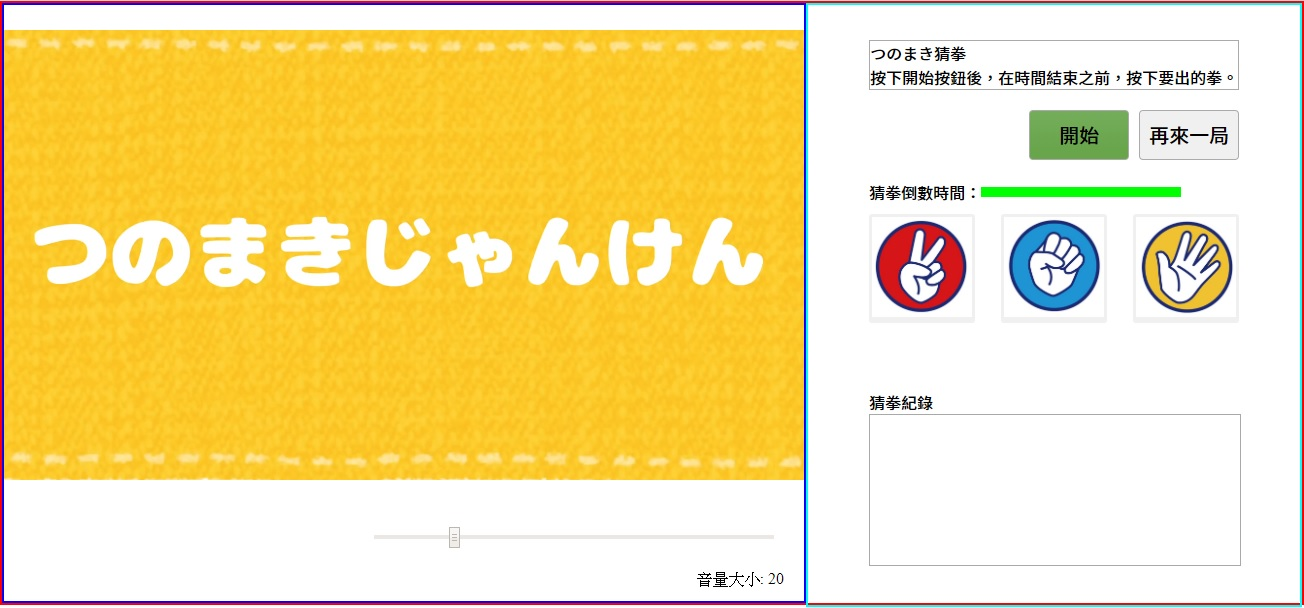
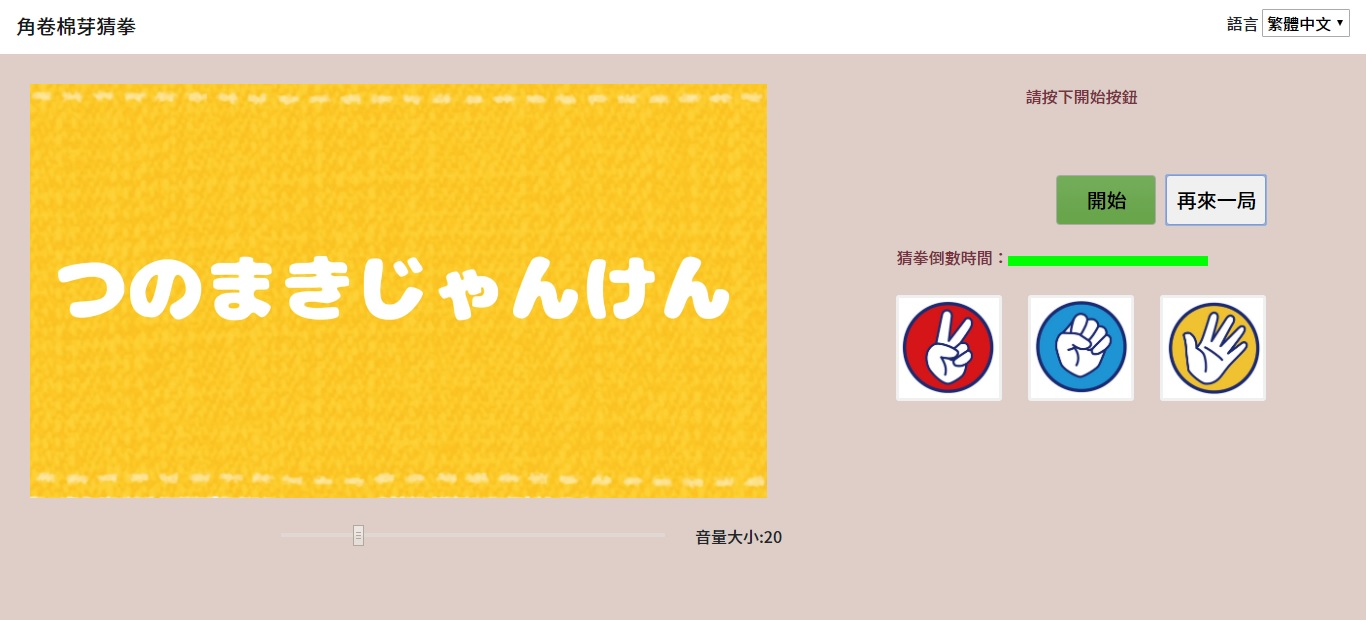
Write README.md to introduce project content

diff --git a/tsuno/README.md b/tsuno/README.md
@@ -2,17 +2,22 @@
 
 ***
 ## Side project: Tsunomaki's rock-paper-scissors.
-## 個人專案: つのまき猜拳
+## 個人專案: 角卷棉芽猜拳
 ***
 
 ![image](https://github.com/JohnnyOfSnow/WebLayout_pratice/blob/master/project_tsunoSRP/image/demo.jpg)
 
-**專案說明：經由撥放影片與つのまき猜拳**
+**專案說明：經由撥放影片與角卷棉芽猜拳**
 
 * **使用技術**
   * **前端(Html、Html5、CSS、CSS3、JavaScript)**
   	* Html: 定義網頁標籤
-  	* Htm5: video標籤
+  	* Html5: video標籤
   	* CSS: 渲染網頁元素
-  	* CSS3: 偽類選取器(nth-child)
   	* JavaScript: 控制影片撥放、控制時間倒數條
+  	* BootStrap4: 桌機、平板、手機板畫面設計
+
+* **功能**
+  * 四種語言切換(繁體中文、簡體中文、英文、日文)
+  * 播放猜拳影片與玩家互動(javascript控制video載入與撥放)
+  * 時間計時條(javascript控制css屬性)

diff --git a/README.md b/README.md
@@ -1,1 +1,17 @@
 # JohnnyOfSnow.github.io
+
+***
+## Side project: Personal Page.
+## 個人專案: 個人網頁製作
+***
+
+![image](https://github.com/JohnnyOfSnow/WebLayout_pratice/blob/master/public/images/demo.gif)
+
+**專案說明：使用學到的技術，證明自己和大學時不同**
+
+* **使用技術**
+  * **前端(Html、CSS、CSS3、JQuery)**
+  	* Html: 定義網頁標籤
+  	* CSS: 渲染網頁元素並切版
+  	* CSS3: 偽類選取器
+  	* JQuery: 文字浮現、控制超連結平滑移動網頁
